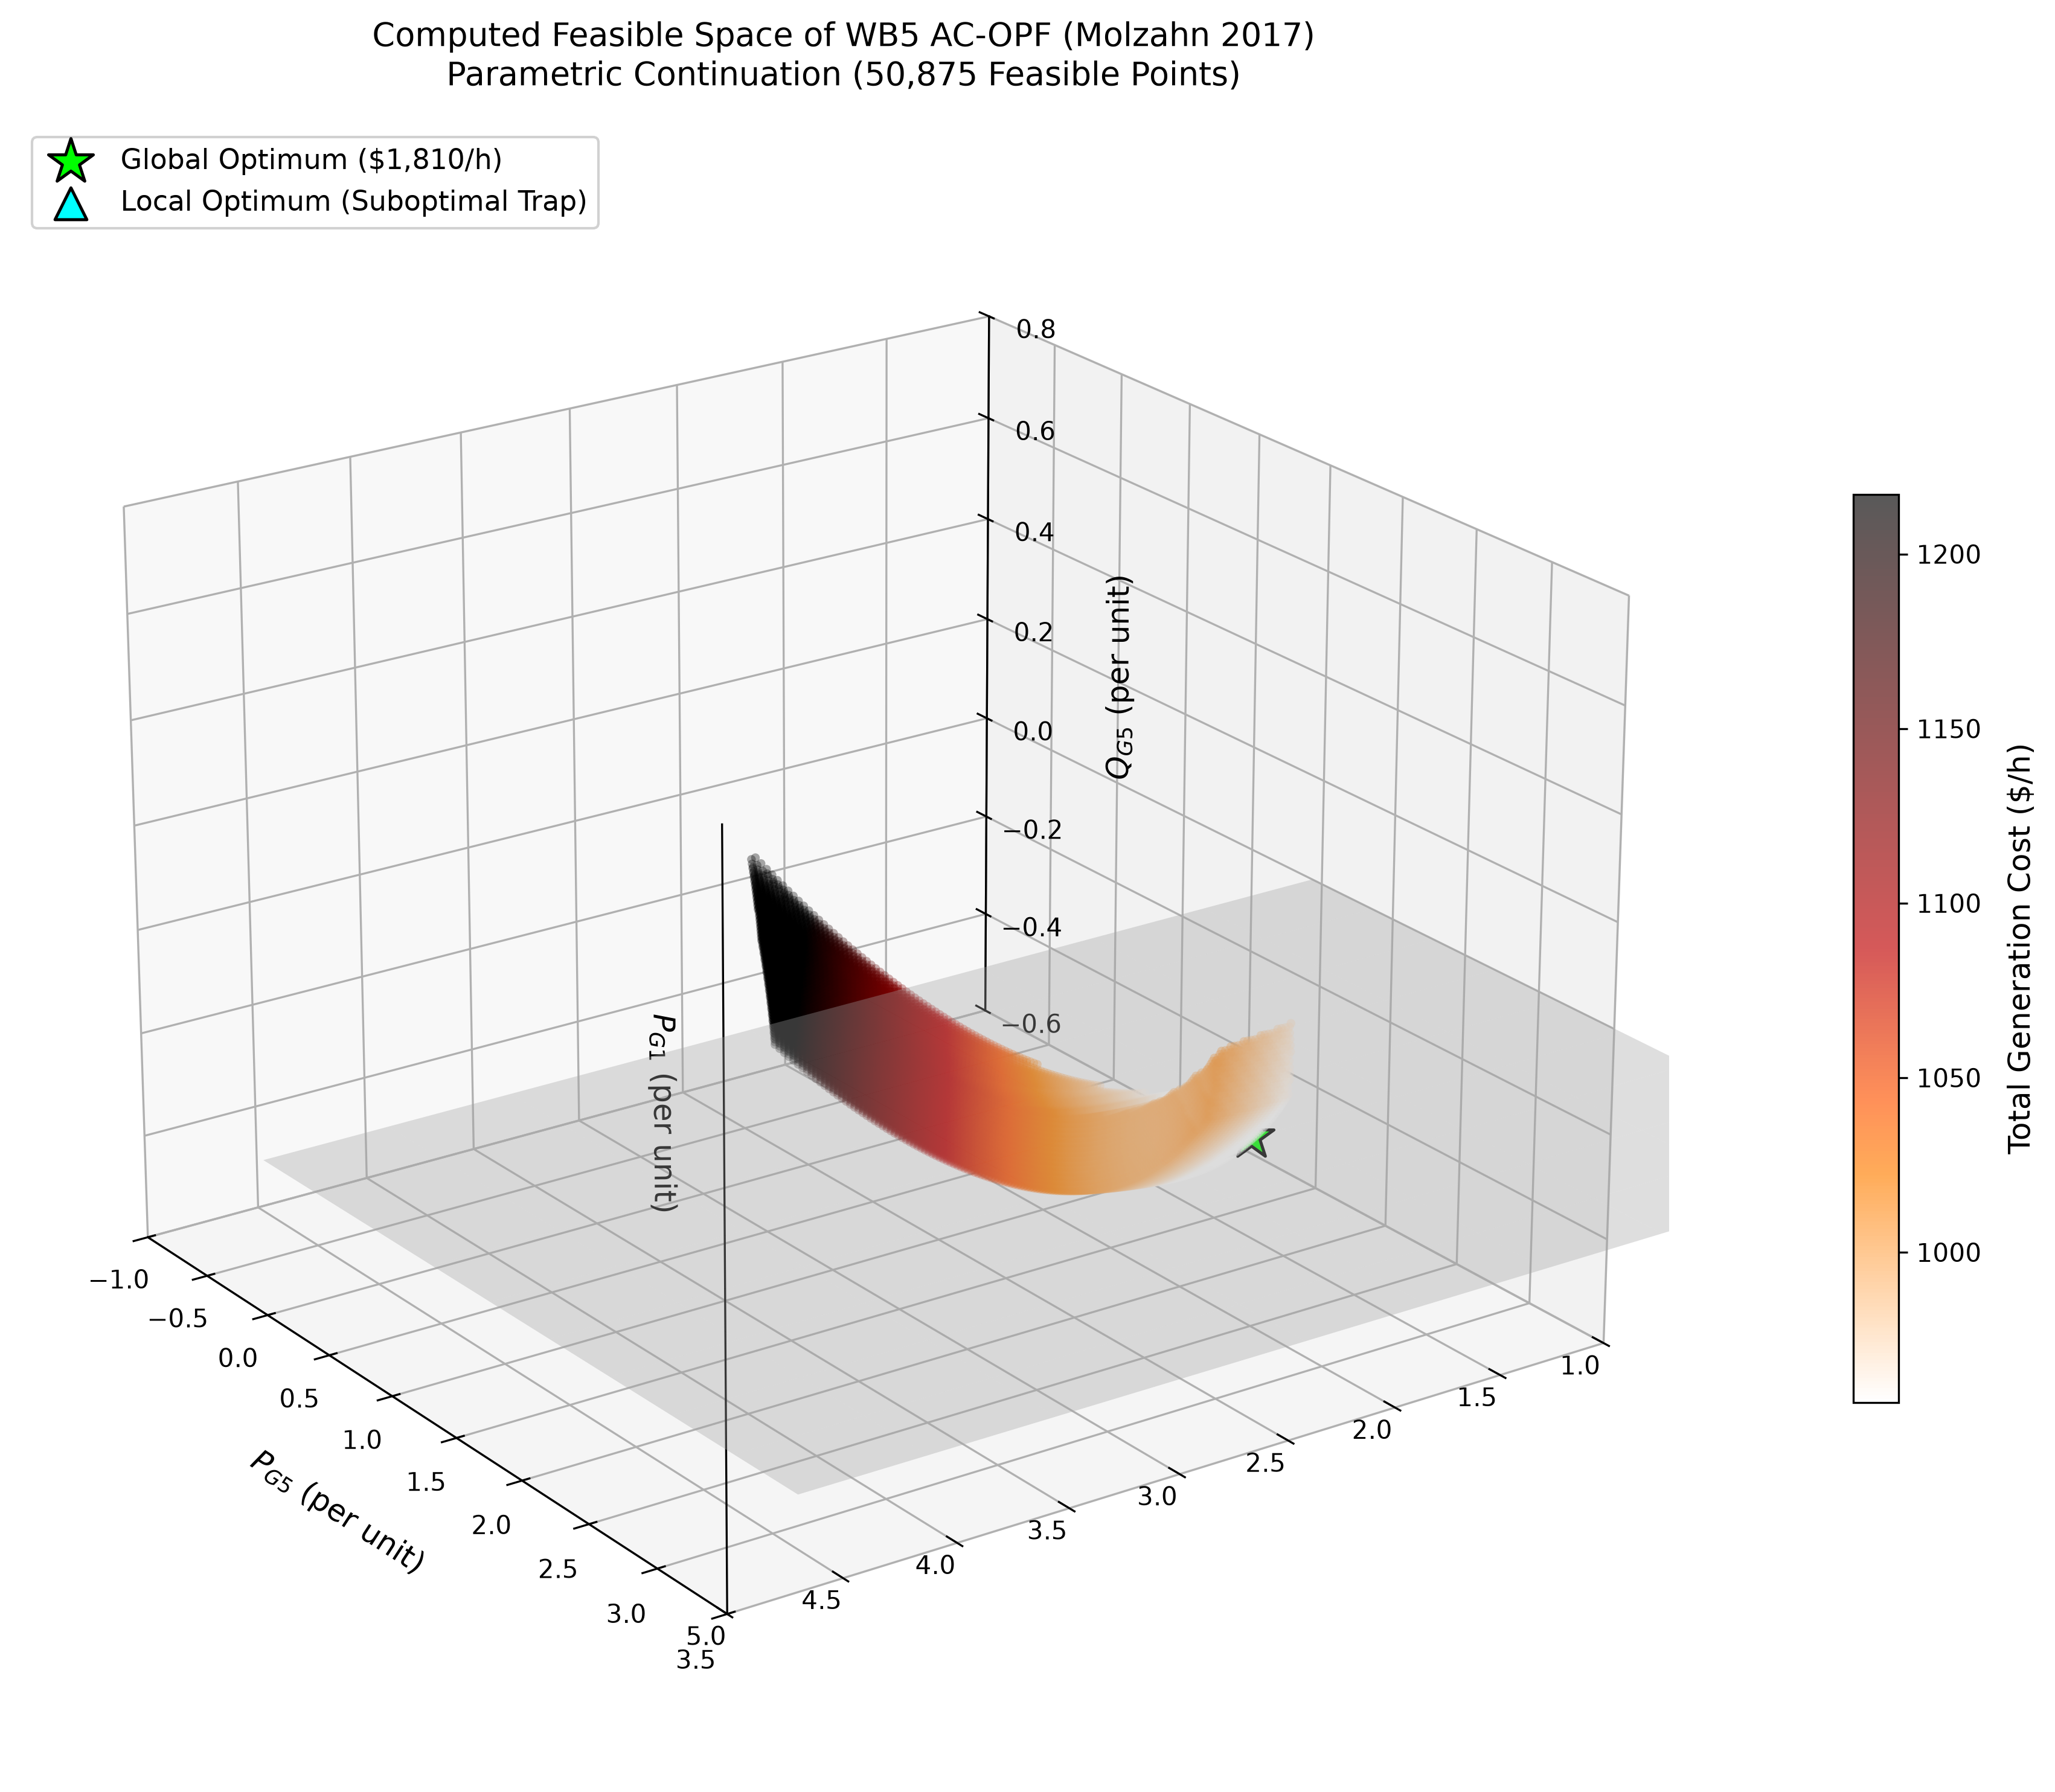
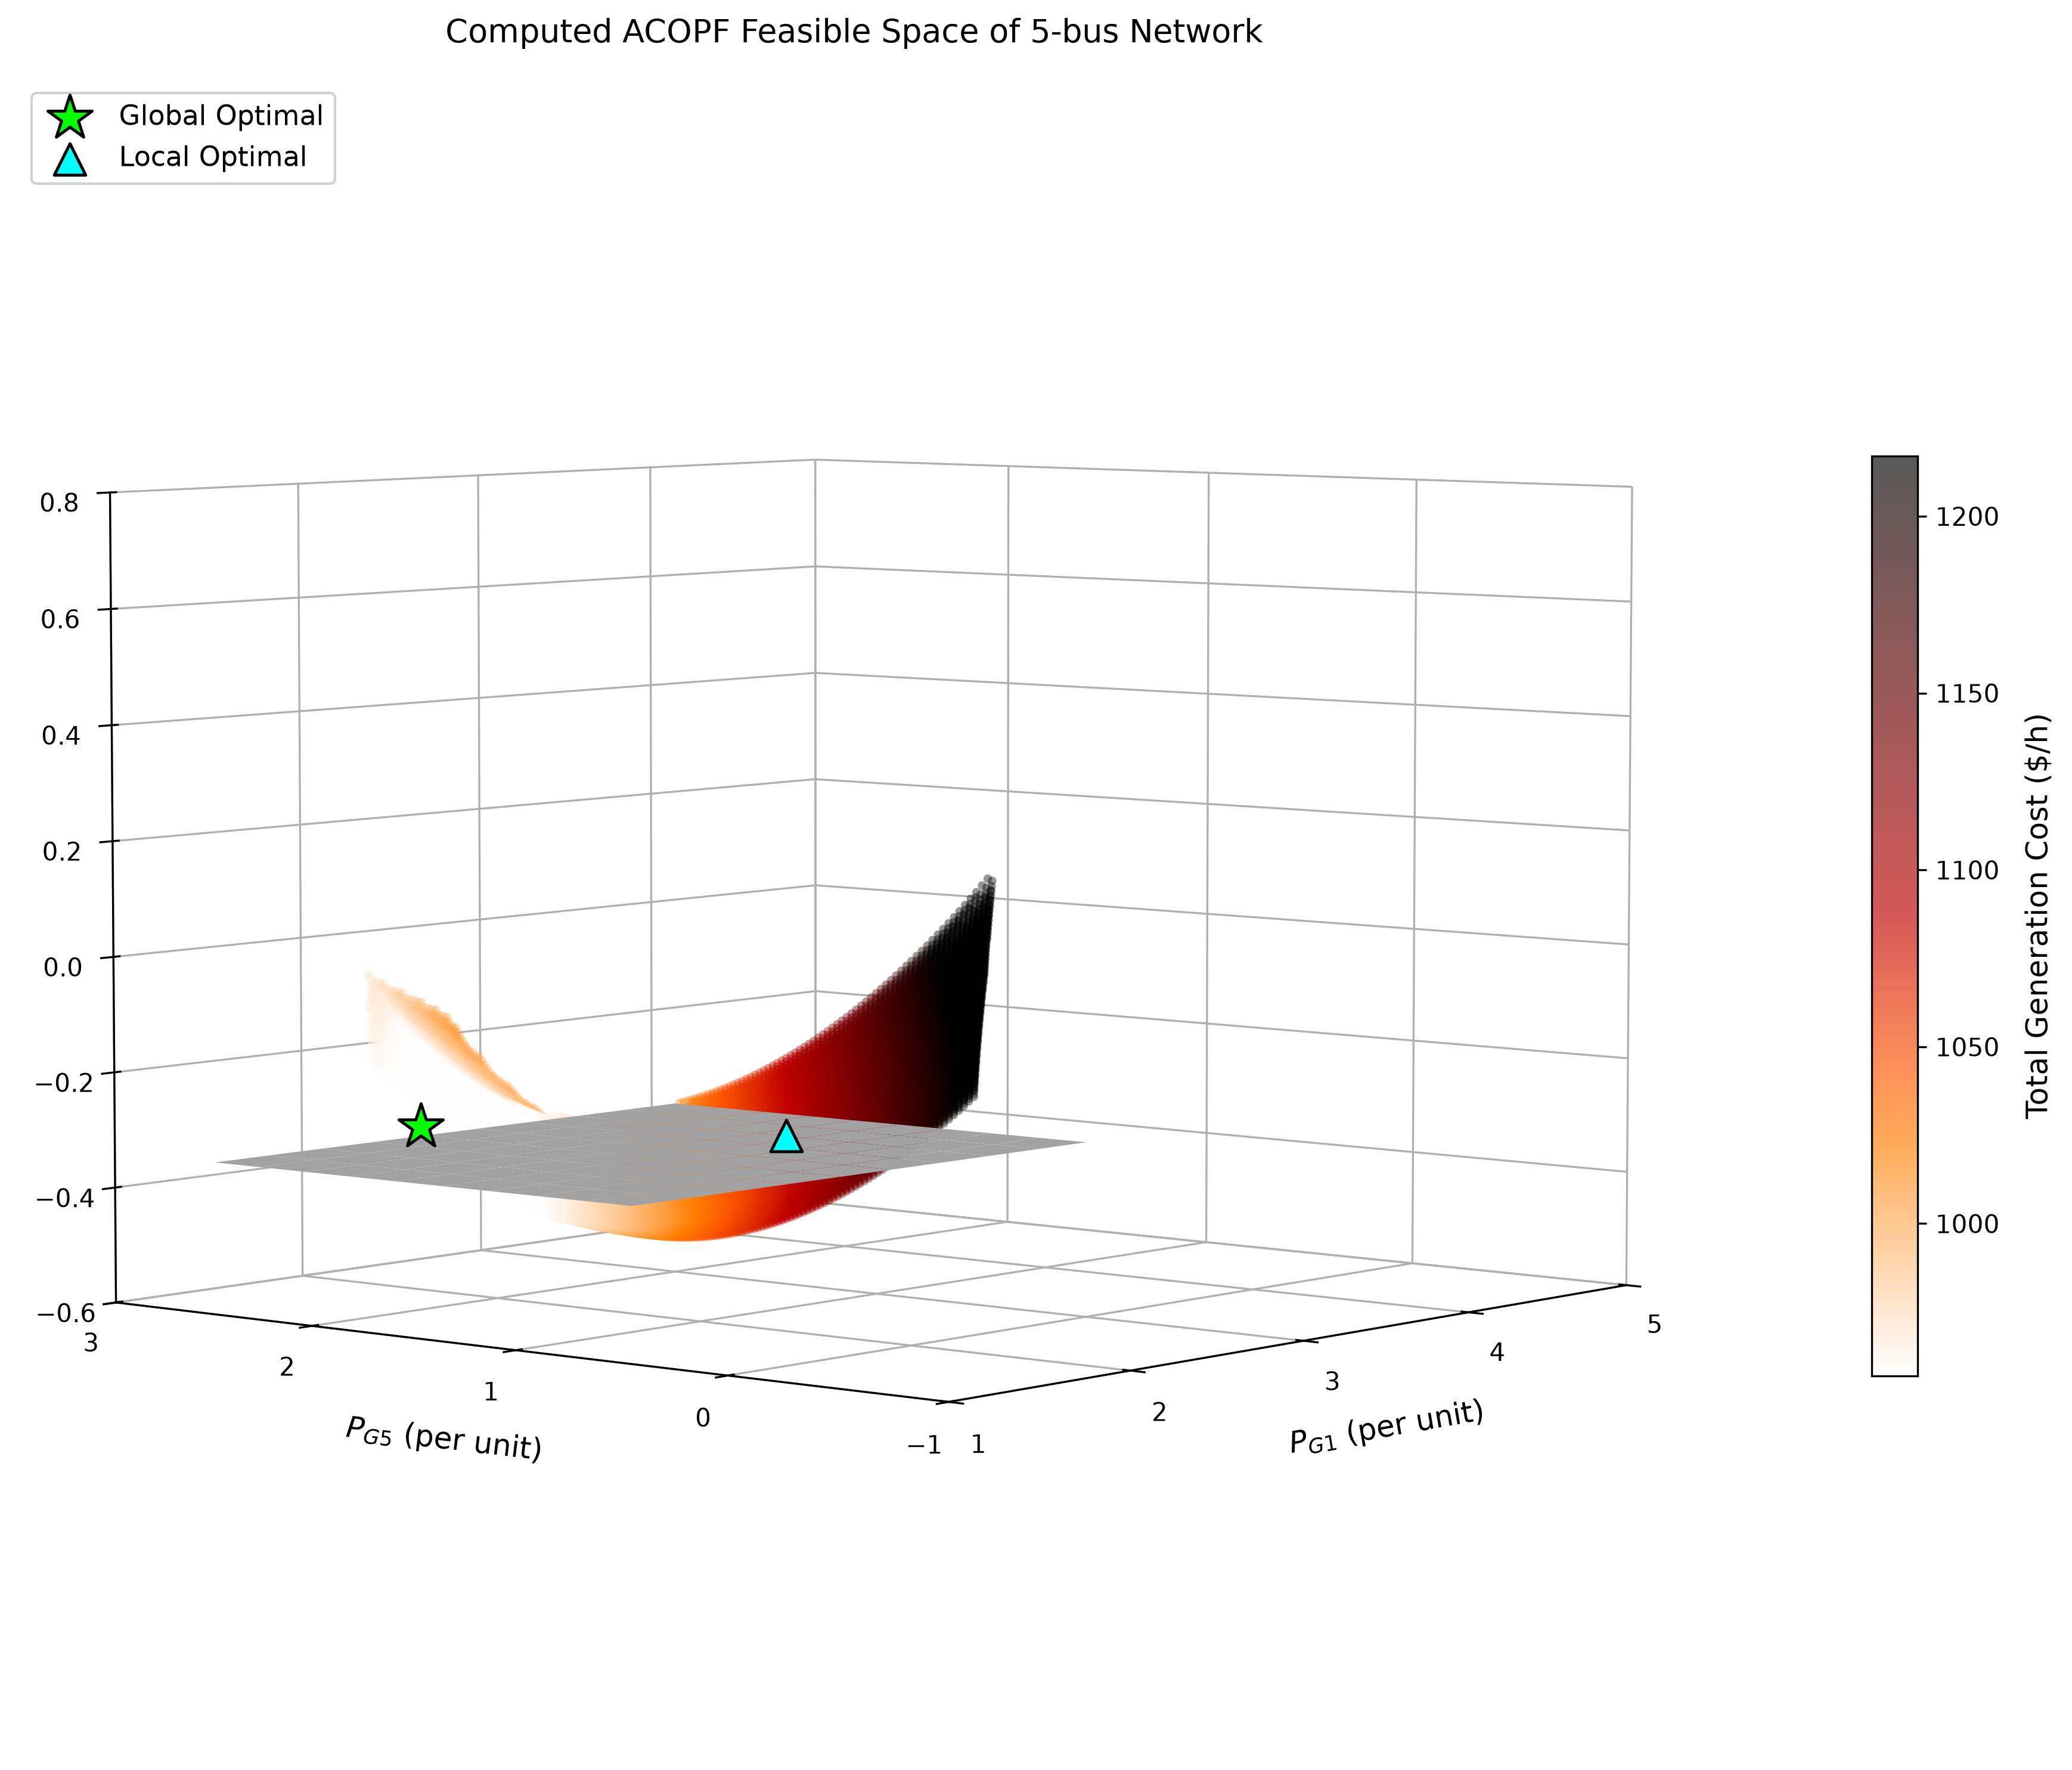
ini plot.py udah oke

diff --git a/plot.py b/plot.py
@@ -1,0 +1,95 @@
+# =============================================================================
+# CELL 5: 3D Feasible Space Manifold (Molzahn 2017, Figure 3 Replication)
+# =============================================================================
+import os
+import pickle
+import numpy as np
+import matplotlib.pyplot as plt
+import matplotlib.ticker as ticker
+
+# 1. Load the dataset generated by your HPC parameter sweep
+input_filename = "wb5_feasible_points_FINAL_50875points.pkl"
+if not os.path.exists(input_filename):
+    raise FileNotFoundError(f"Could not find '{input_filename}'. Ensure it is in your notebook folder!")
+
+with open(input_filename, "rb") as f:
+    plot_points = pickle.load(f)
+
+print(f"✔ Successfully loaded {len(plot_points):,} feasible points.")
+
+# 2. Extract projection axes: P_G5 (X-axis), P_G1 (Y-axis), Q_G5 (Z-axis)
+P_G1_vals = np.array([pt['P_gen'][0] for pt in plot_points])  # Slack bus active generation
+P_G5_vals = np.array([pt['P_gen'][4] for pt in plot_points])  # Bus 5 active generation
+Q_G5_vals = np.array([pt['Q_gen'][4] for pt in plot_points])  # Bus 5 reactive generation
+cost_vals = np.array([pt['cost'] for pt in plot_points])      # Objective cost ($/h)
+
+# Clean any potential NaN/Inf values
+valid_mask = ~np.isnan(cost_vals) & ~np.isinf(cost_vals)
+P_G1_vals, P_G5_vals, Q_G5_vals, cost_vals = P_G1_vals[valid_mask], P_G5_vals[valid_mask], Q_G5_vals[valid_mask], cost_vals[valid_mask]
+
+# 3. Initialize 3D Figure
+fig = plt.figure(figsize=(13, 10), dpi=150)
+ax = fig.add_subplot(111, projection='3d')
+ax.computed_zorder = False
+# 4. Plot the Continuous Feasible Manifold (The "Ribbon")
+# Using gist_heat_r mimics the paper's thermal gradient (White/Red -> Black)
+sc = ax.scatter(P_G1_vals, P_G5_vals, Q_G5_vals, 
+                c=cost_vals, cmap='gist_heat_r', 
+                s=12,               # Size calibrated for 2,510 points to fuse into a surface
+                alpha=0.65,         # Transparency allows volume structure to be visible
+                edgecolors='none',  # Critical: Removes borders so points blend into a ribbon
+                vmin=np.percentile(cost_vals, 5), vmax=np.percentile(cost_vals, 95))
+
+# 5. Plot the Separating Hyperplane at Q_G5 = -0.30 pu
+# This plane highlights the topological disconnect between the local and global optima
+xx, yy = np.meshgrid(np.linspace(0.5, 3.0, 10), np.linspace(0, 2.0, 10))
+zz = -0.30 * np.ones_like(xx)
+ax.plot_surface(xx, yy, zz, color='lightgray', alpha=1, rstride=1, cstride=1, edgecolor='none')
+
+# 6. Highlight Benchmark Optima from Molzahn (2017) Table II
+# Global Optimum: P_G1 = 1.81, P_G5 = 2.21, Q_G5 = -0.30 ($1,810/h)
+
+ax.scatter([1.81], [2.21], [-0.30], color='lime', s=350, marker='*', edgecolors='black', linewidths=1.2, zorder=100, depthshade=False, label='Global Optimal')
+
+
+# Local Optimum: P_G1 = 2.46, P_G5 = 0.98, Q_G5 = -0.30 (+14.3% higher cost)
+ax.scatter([2.46], [0.98], [-0.30], color='cyan', s=160, marker='^', edgecolors='black', linewidths=1.2, zorder=10, label='Local Optimal')
+
+# 7. Axes formatting and labels
+cb = plt.colorbar(sc, ax=ax, shrink=0.55, pad=0.08)
+cb.set_label('Total Generation Cost ($/h)', fontsize=12, labelpad=10)
+
+ax.set_xlabel('$P_{G1}$ (per unit)', fontsize=12, labelpad=12)
+ax.set_ylabel('$P_{G5}$ (per unit)', fontsize=12, labelpad=12)
+ax.set_zlabel('$Q_{G5}$ (per unit)', fontsize=12, labelpad=12)
+
+# --- CRITICAL AXIS SWAP ADJUSTMENTS ---
+ax.xaxis.set_pane_color((1.0, 1.0, 1.0, 0.0))  
+ax.yaxis.set_pane_color((1.0, 1.0, 1.0, 0.0))
+ax.zaxis.set_pane_color((1.0, 1.0, 1.0, 0.0))
+
+# Set exact viewing limits matching Figure 3
+ax.set_xlim([1, 5])
+ax.set_ylim([-1.0, 3.0])
+ax.set_zlim([-0.60, 0.80])
+
+# --- FORCE INTEGER TICK MARKS ON X AND Y AXES ---
+ax.xaxis.set_major_locator(ticker.MaxNLocator(integer=True))
+ax.yaxis.set_major_locator(ticker.MaxNLocator(integer=True))
+
+ax.set_title("Computed ACOPF Feasible Space of 5-bus Network"
+            #  f"Parametric Continuation ({len(plot_points):,} Feasible Points)"
+             , fontsize=13, pad=15)
+
+# Adjust camera viewpoint to naturally push the PG1 wall panel backward
+ax.view_init(elev=5, azim=220)
+ax.legend(loc='upper left', framealpha=0.9, fontsize=11)
+
+plt.tight_layout()
+
+# Save publication-ready image
+output_img = f"{input_filename}.png"
+plt.savefig(output_img, dpi=300, bbox_inches='tight')
+print(f"✔ High-resolution plot saved as '{output_img}'!")
+
+# plt.show()